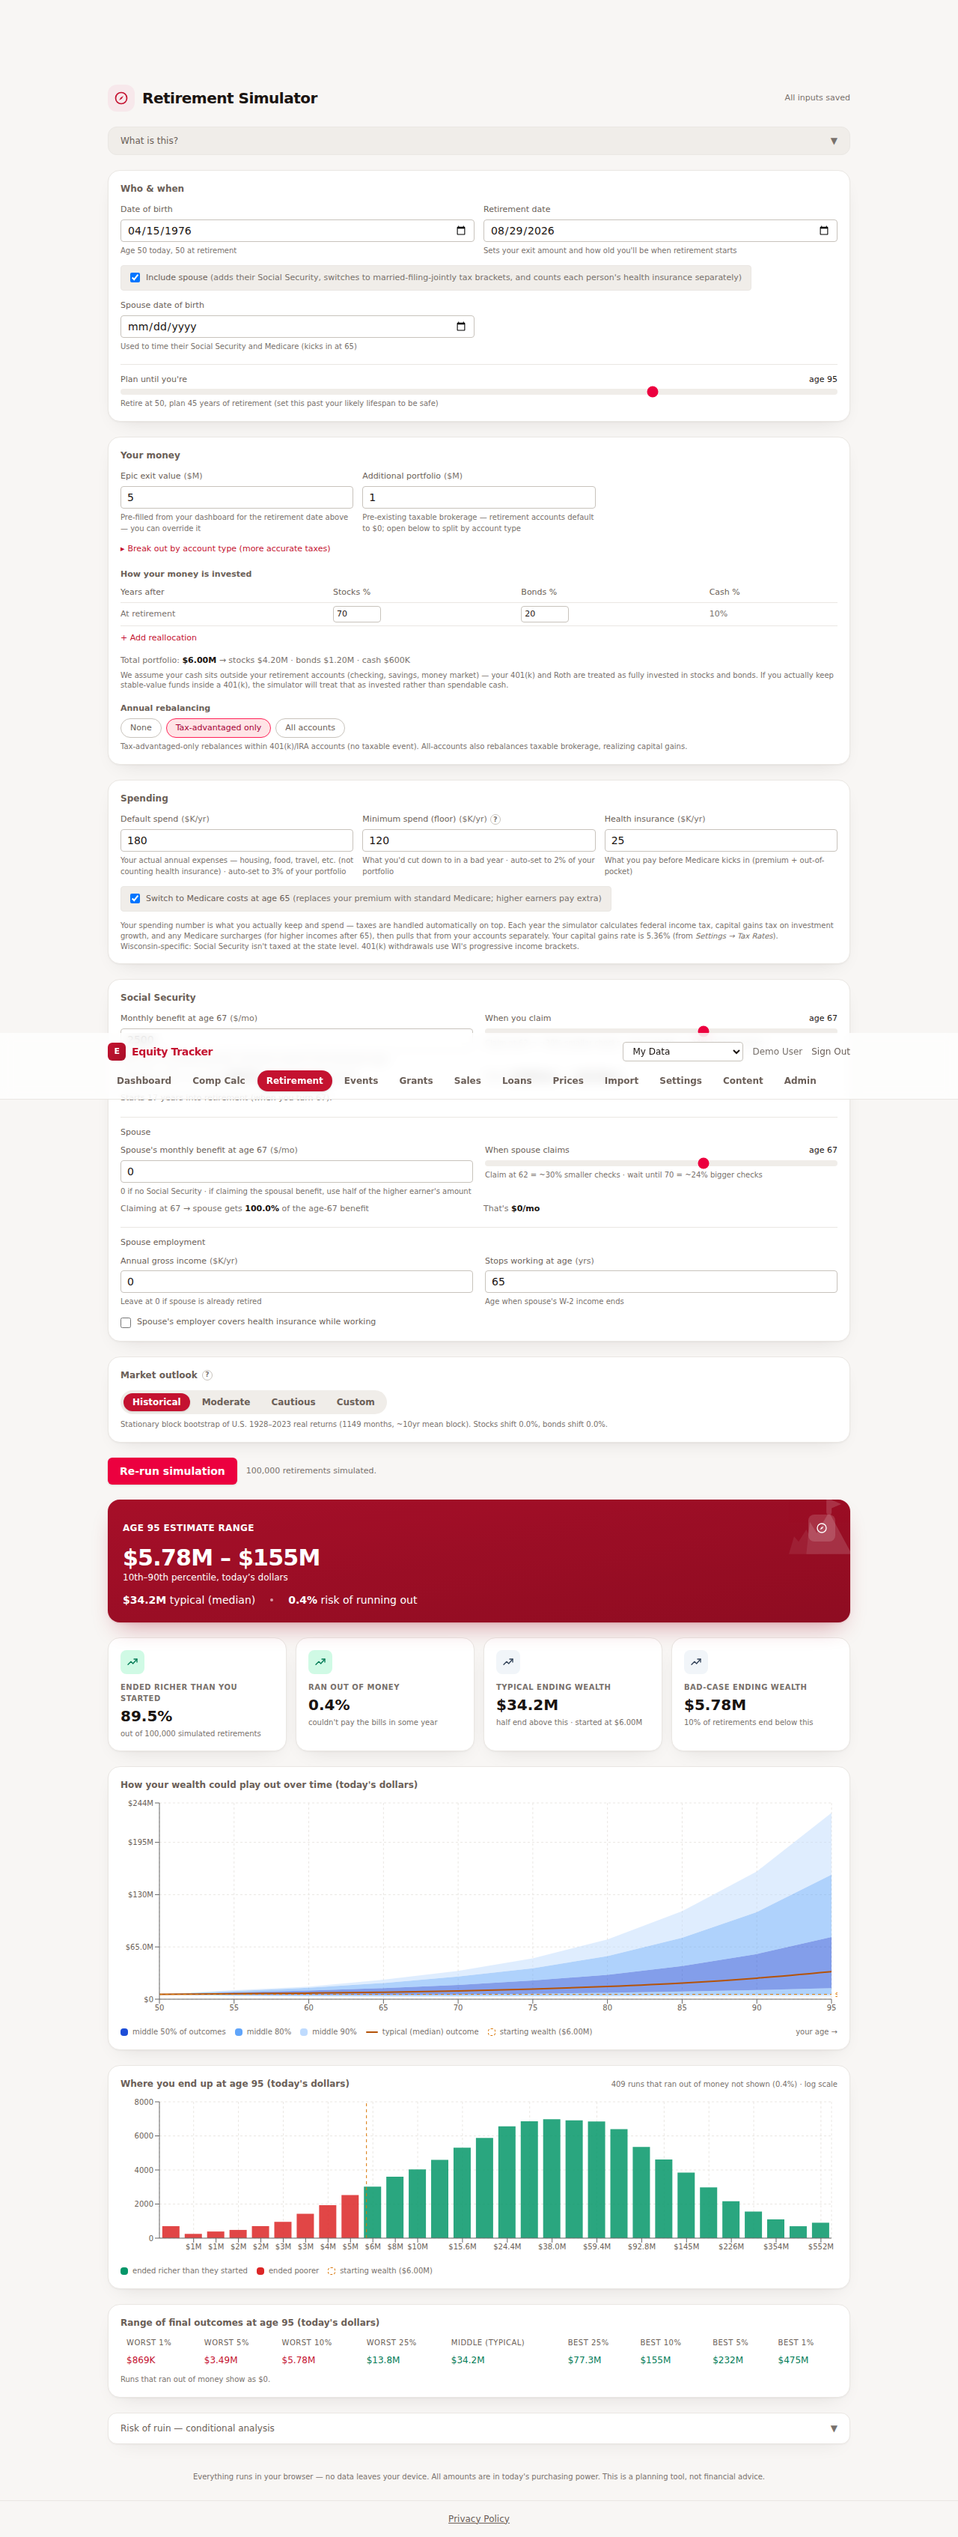
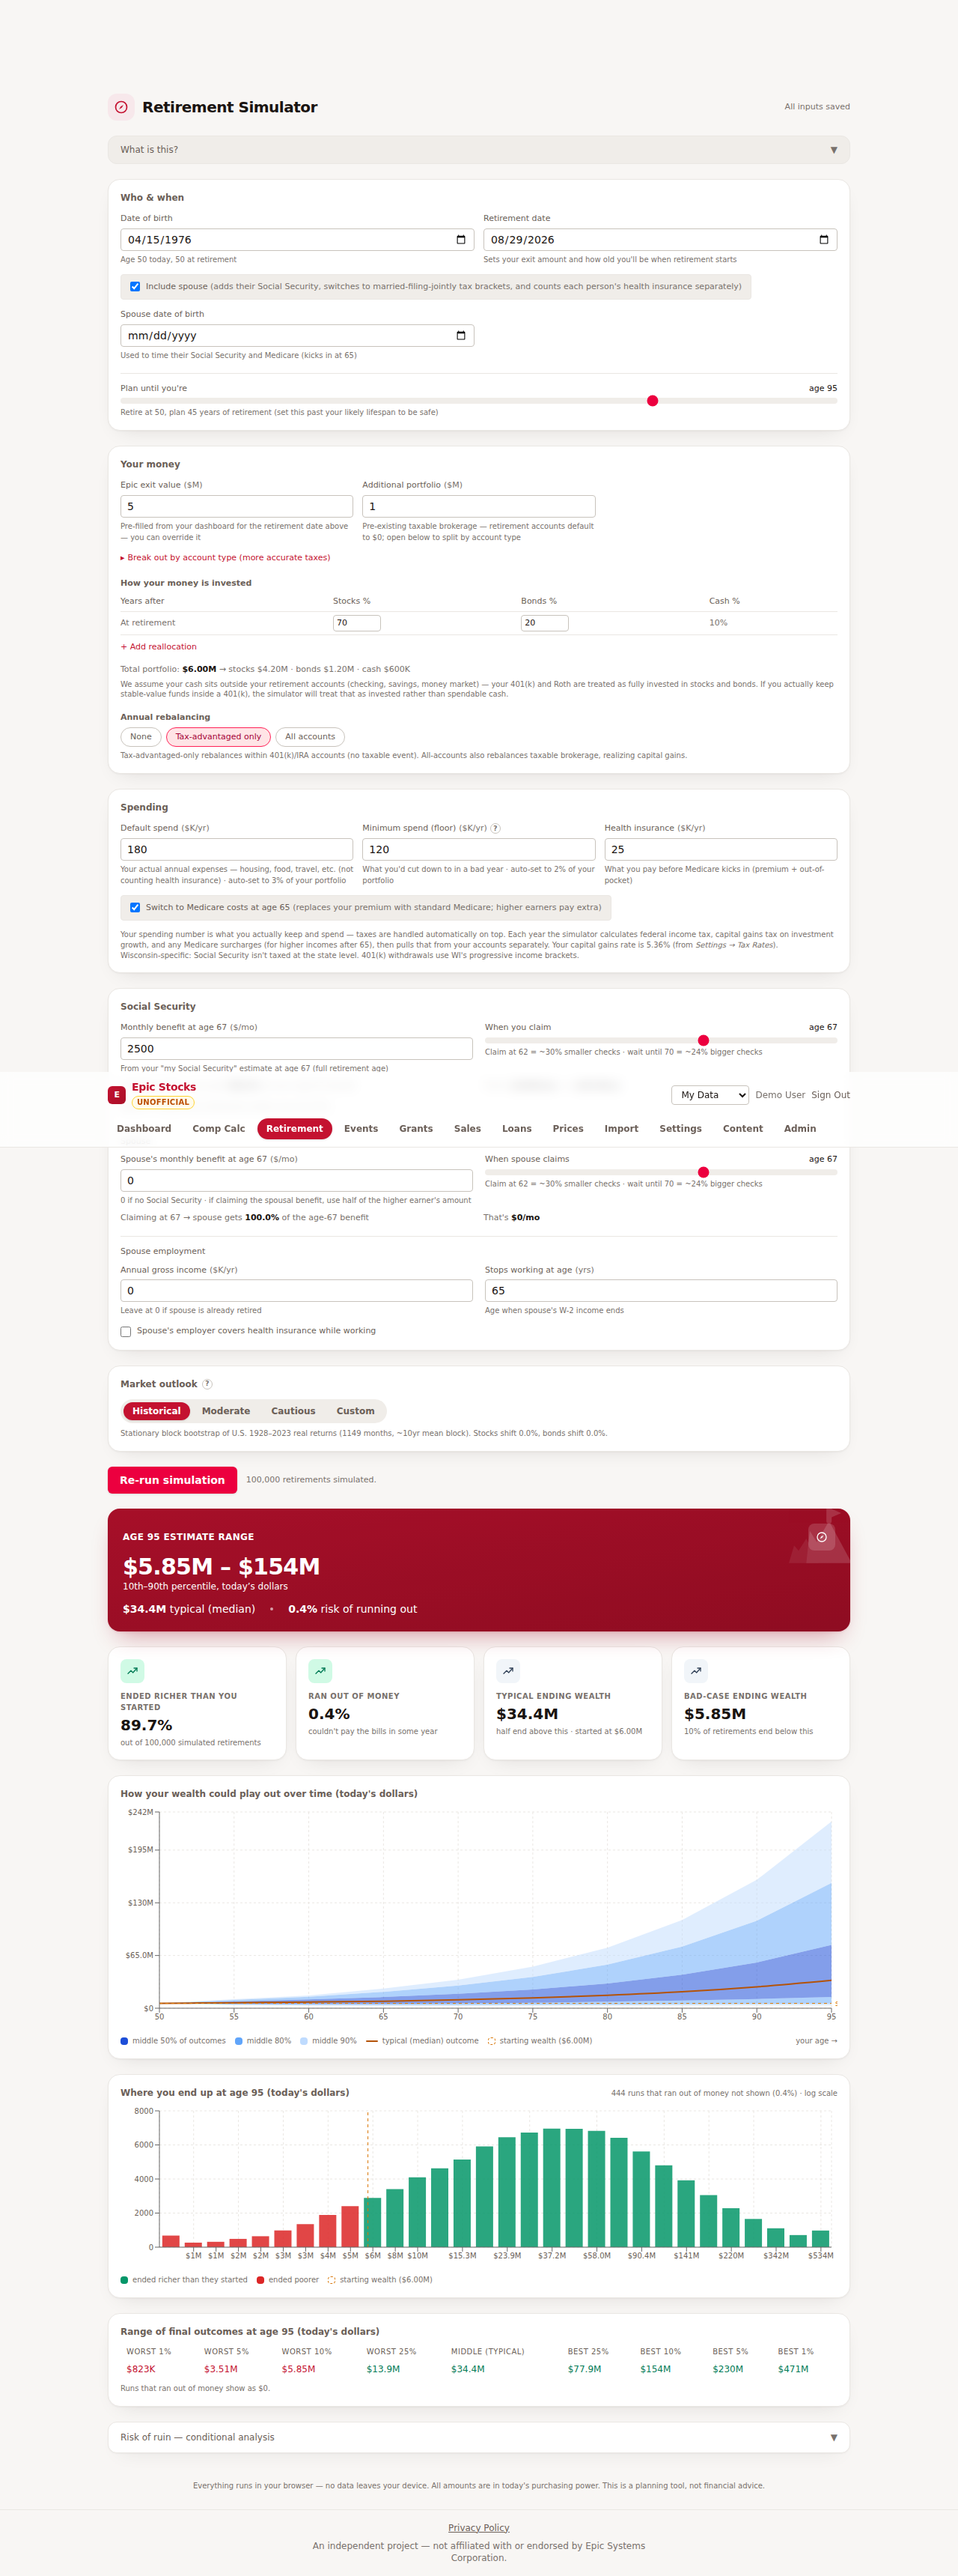
Give the retirement screenshots time to finish simulating
The Monte Carlo run takes ~35s here, past the 30s per-test default, so the
three retirement captures failed and kept their stale pre-rename headers.
The waitForSelector already asked for 60s — the per-test cap was what it hit.

Claude-Session: https://claude.ai/code/session_01XY3BbPfG2sQKNjVYT1qJoz

diff --git a/frontend/e2e/screenshots.spec.ts b/frontend/e2e/screenshots.spec.ts
@@ -329,6 +329,9 @@ test.describe('Screenshots', () => {
   // Seed plausible portfolio values + DOB so the screenshots reflect a real
   // retirement plan rather than a $237K exit ruining at year 1.
   async function seedRetirement(page: Page) {
+    // The Monte Carlo run below can take well over the 30s per-test default,
+    // which capped the 60s waitForSelector and failed these three outright.
+    test.setTimeout(150_000)
     await page.goto(`${BASE}/retirement`)
     await page.waitForLoadState('networkidle')
     await page.waitForTimeout(500)
